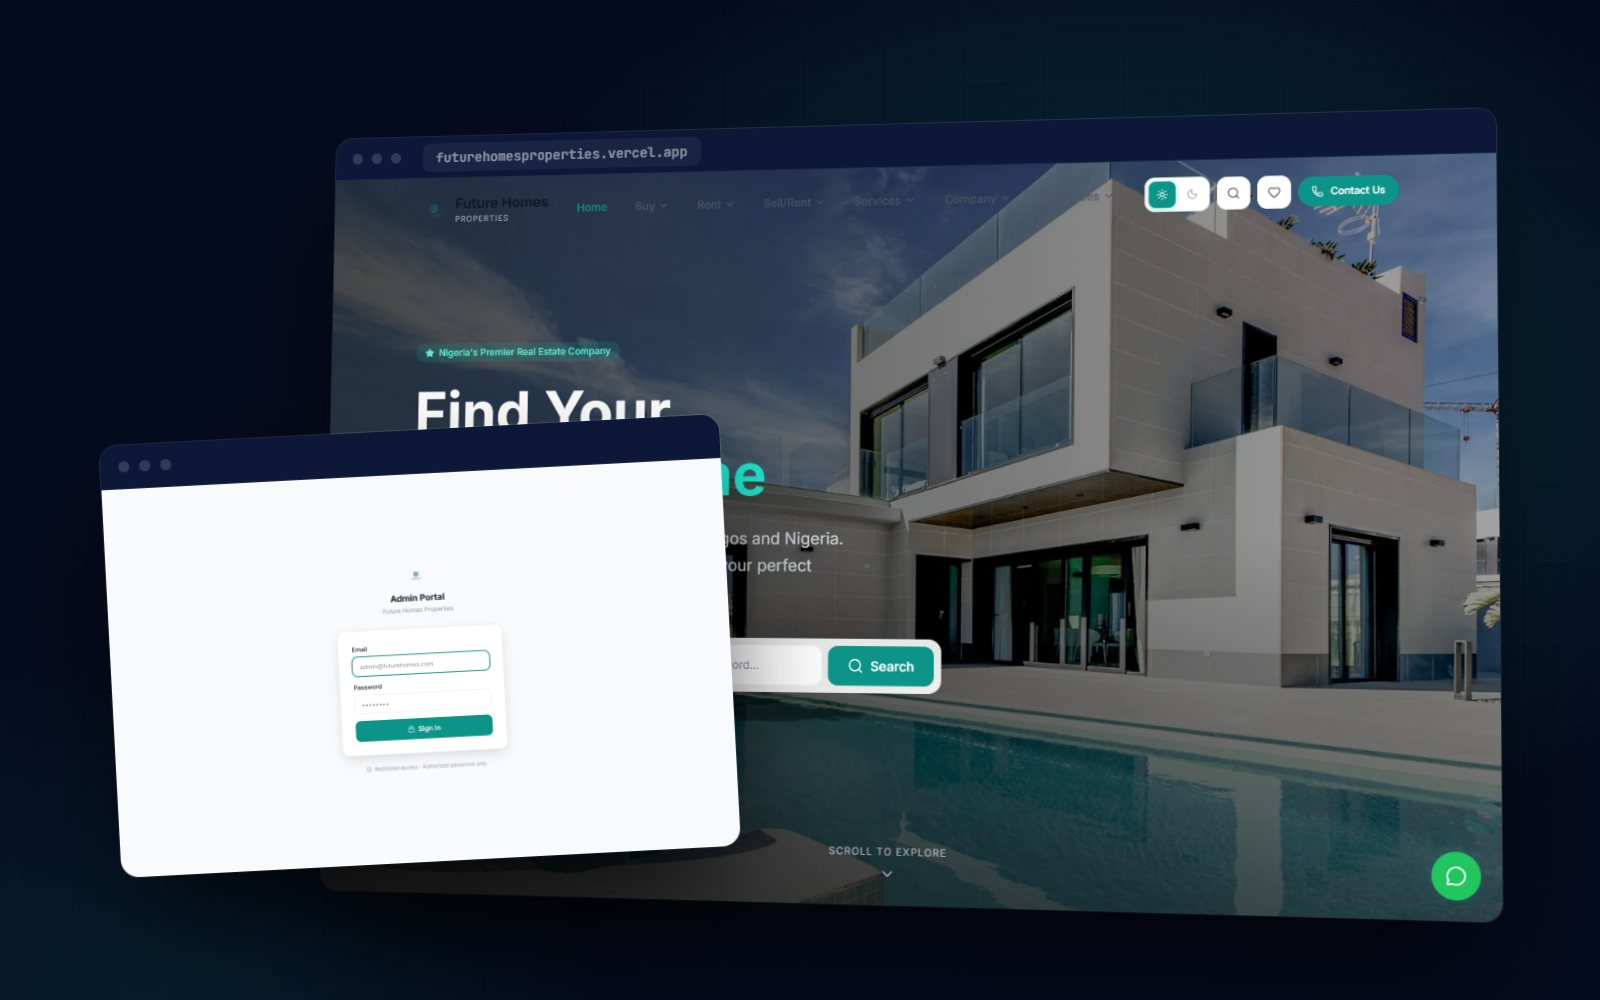
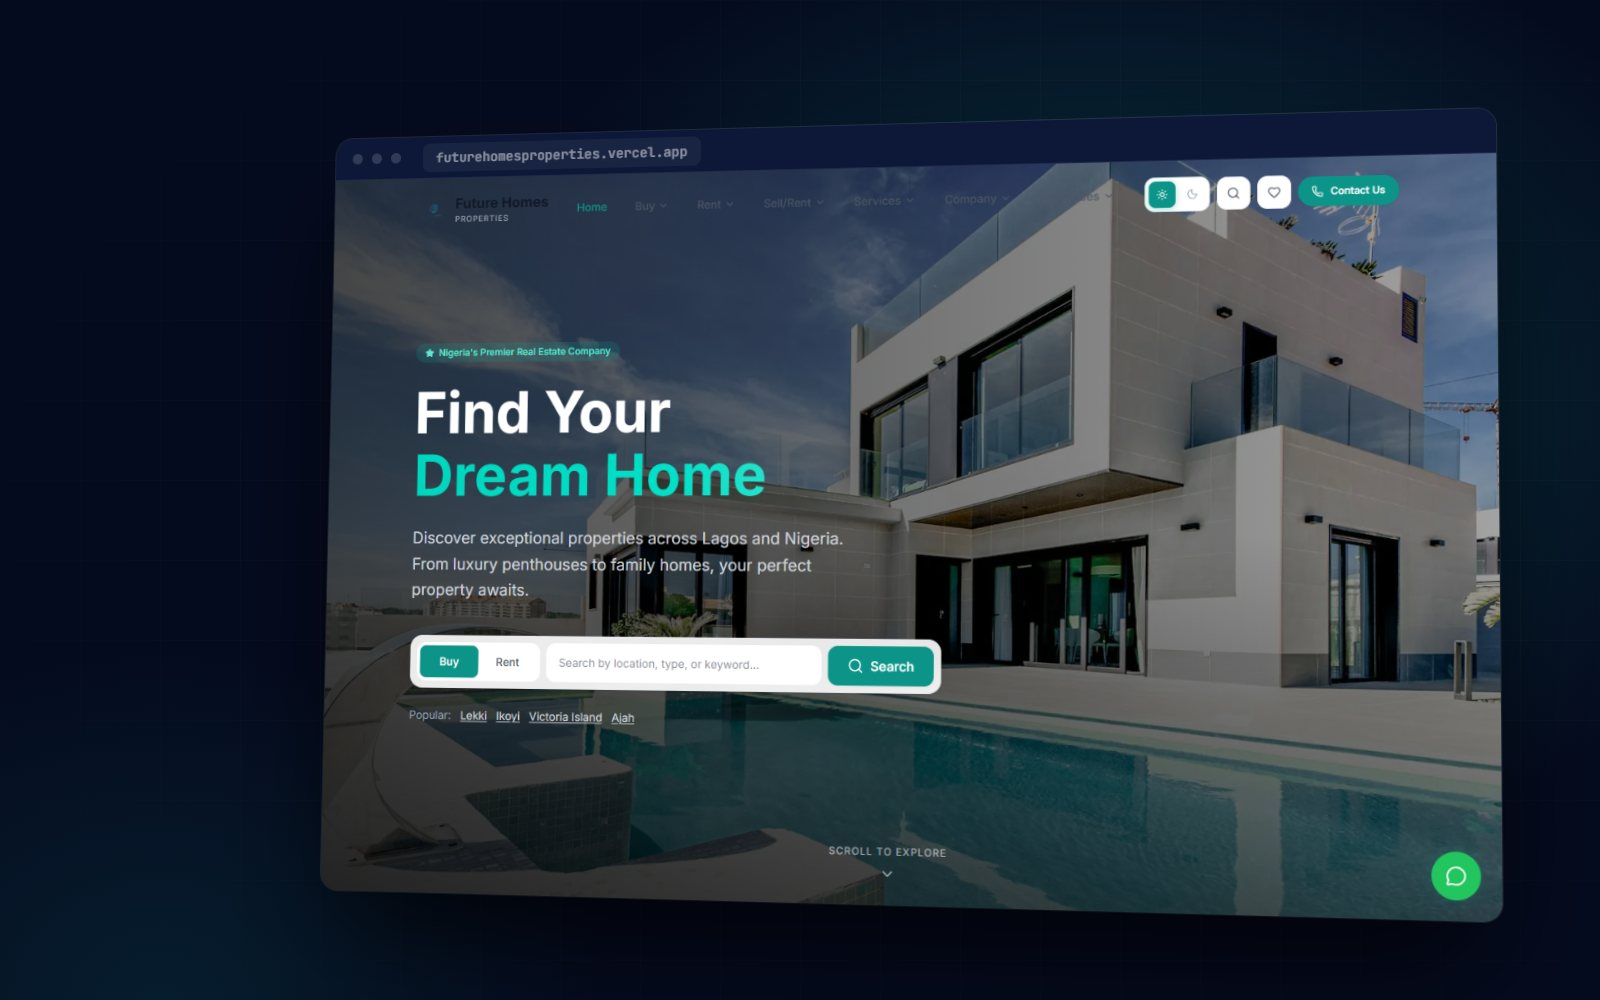
Update portfolio data: add Java skill, enhance backend and data stack, and modify project details; remove unused cover images

Changed region(s): [[0.0625, 0.403, 0.5, 0.899]]

diff --git a/src/data/portfolio-data.ts b/src/data/portfolio-data.ts
@@ -51,6 +51,7 @@ export const skills: Skill[] = [
   { name: "React / Next.js", icon: Globe, color: "text-blue-500" },
   { name: "React Native / Expo", icon: Atom, color: "text-[#61DAFB]" },
   { name: "Node.js / NestJS", icon: Database, color: "text-green-500" },
+  { name: "Java", icon: Code, color: "text-orange-600" },
   { name: "Python / FastAPI", icon: Code, color: "text-green-600" },
   { name: "MongoDB", icon: Database, color: "text-emerald-500" },
   { name: "PostgreSQL / Prisma", icon: Database, color: "text-cyan-600" },
@@ -62,9 +63,9 @@ export const skills: Skill[] = [
 
 export const stackGroups = [
   { label: "Frontend", items: ["Next.js", "React", "TypeScript", "Tailwind CSS", "TanStack Query", "Framer Motion", "shadcn/ui"] },
-  { label: "Backend", items: ["Node.js", "NestJS", "Express", "FastAPI", "Socket.IO", "REST APIs", "BullMQ"] },
-  { label: "Data", items: ["PostgreSQL", "Prisma", "MongoDB", "Redis", "pgvector", "MSSQL", "Firebase"] },
-  { label: "Apps & Ops", items: ["React Native / Expo", "Tauri", "Docker", "Vercel", "Playwright", "Vitest"] },
+  { label: "Backend", items: ["Next.js (API routes / full-stack)", "Node.js", "NestJS", "Express", "Java", "Python / FastAPI", "Socket.IO", "REST APIs", "BullMQ"] },
+  { label: "Data", items: ["PostgreSQL", "Prisma", "MongoDB", "Redis", "pgvector", "MSSQL", "Firebase", "Cloudinary"] },
+  { label: "Apps & Ops", items: ["React Native / Expo", "Tauri", "Python desktop (pywebview)", "Docker", "Vercel", "Paystack", "Playwright", "Vitest"] },
   { label: "Design", items: ["Figma", "Adobe XD", "Photoshop", "Illustrator", "Premiere"] },
 ];
 
@@ -106,6 +107,23 @@ export const services = [
 ];
 
 /* ------------------------------------------------------------------ */
+/* SAPOK TECH — the company                                            */
+/* ------------------------------------------------------------------ */
+
+export const sapokTech = {
+  name: "SAPOK TECH",
+  role: "Founder & CEO",
+  tagline: "Building solutions. Empowering futures.",
+  summary:
+    "SAPOK TECH is the technology company I run. Businesses come to us to design, build and run their software — from a single website to a full platform — and we ship our own products alongside that work.",
+  offers: ["Custom software & platforms", "Web, desktop & mobile apps", "Fintech & payments", "AI integration", "UI/UX & brand"],
+  cover: "/work/covers/sapok.jpg",
+  // Product slugs from `projects`, shown as the company's solutions
+  solutions: ["onegrid", "sapok-pay", "sapok-ai", "withu"],
+  websiteStatus: "Company website — in progress",
+};
+
+/* ------------------------------------------------------------------ */
 /* Experience                                                          */
 /* ------------------------------------------------------------------ */
 
@@ -144,9 +162,9 @@ export const cvExperience: CVExperience[] = [
     period: "2025 - Present",
     company: "SAPOK TECH",
     highlights: [
-      "Architecting Sapok OneGrid (formerly Nexora), a multi-tenant organisational management platform with a Next.js control center, a Tauri desktop app and a NestJS core API.",
-      "Building SAPOK Pay, a self-service wallet, ledger and payout platform with merchant API keys.",
-      "Building SAPOK AI, a permission-aware AI and knowledge-retrieval service on FastAPI with local embeddings.",
+      "Lead SAPOK TECH, a technology company businesses engage to design, build and run software — web platforms, desktop and mobile apps, fintech, AI and brand.",
+      "Oversee the company's own product line: Sapok OneGrid (organisational management desktop app), SAPOK Pay (fintech), SAPOK AI and WITHU.",
+      "Set product direction, architecture and delivery standards across client engagements and in-house products; the SAPOK TECH website is in progress.",
     ],
   },
   {
@@ -184,7 +202,7 @@ export const cvExperience: CVExperience[] = [
 export const cvSkillGroups = [
   { title: "Programming Languages", items: ["TypeScript", "JavaScript (ES6+)", "Python", "Java", "SQL", "HTML5 / CSS3"] },
   { title: "Frontend & Mobile", items: ["Next.js", "React", "React Native / Expo", "Tauri", "Tailwind CSS", "TanStack Query", "JSF PrimeFaces"] },
-  { title: "Backend & Data", items: ["Node.js", "NestJS", "Express", "FastAPI", "PostgreSQL / Prisma", "MongoDB", "Redis", "MSSQL", "Socket.IO"] },
+  { title: "Backend & Data", items: ["Next.js (full-stack / API routes)", "Node.js", "NestJS", "Express", "Java", "Python / FastAPI", "PostgreSQL / Prisma", "MongoDB", "Redis", "MSSQL", "Socket.IO", "Cloudinary", "Paystack"] },
   { title: "Tools & Design", items: ["Git / GitHub", "Docker", "Vercel", "Playwright / Vitest", "Figma", "Adobe Photoshop", "Adobe Illustrator", "Adobe XD"] },
 ];
 
@@ -192,7 +210,7 @@ export const cvSkillGroups = [
 /* Projects                                                            */
 /* ------------------------------------------------------------------ */
 
-export type ProjectCategory = "Platforms" | "Healthcare" | "Web Apps" | "Websites" | "Design";
+export type ProjectCategory = "Platforms" | "Healthcare" | "Desktop Apps" | "Web Apps" | "Websites" | "Design";
 
 export interface Project {
   slug: string;
@@ -212,31 +230,30 @@ export interface Project {
   featured?: boolean;
 }
 
-export const projectCategories: ("All" | ProjectCategory)[] = ["All", "Platforms", "Healthcare", "Web Apps", "Websites", "Design"];
+export const projectCategories: ("All" | ProjectCategory)[] = ["All", "Platforms", "Healthcare", "Desktop Apps", "Web Apps", "Websites", "Design"];
 
 export const projects: Project[] = [
   {
     slug: "onegrid",
     title: "Sapok OneGrid",
-    category: "Platforms",
+    category: "Desktop Apps",
     year: "2026",
     client: "SAPOK TECH · formerly Nexora",
-    summary: "Enterprise multi-tenant platform for running organisations — one core API behind a web control center and a desktop app.",
+    summary: "Organisational management desktop app — every organisation runs one app, and its sign-in decides the modules, roles and permissions they get.",
     overview:
-      "OneGrid (formerly Nexora) is the master platform of the SAPOK ecosystem. Platform admins onboard organisations, manage subscriptions and modules in the Control Center; every organisation runs the same Tauri desktop app, where the signed-in session decides identity, enabled modules, roles and permissions.",
+      "OneGrid (formerly Nexora) is SAPOK TECH's flagship solution: a multi-tenant desktop application organisations use to run their operations. One Tauri app serves every tenant — the signed-in session determines organisation identity, subscription, enabled modules, roles and permissions — all backed by a single NestJS core API.",
     features: [
-      "Control Center web app for onboarding, subscriptions and module management",
-      "Single Tauri desktop app for every tenant, scoped by session",
+      "One Tauri desktop app for every organisation, scoped by session",
+      "Subscriptions and per-organisation modules",
       "NestJS core API as the single source of truth, with Prisma and PostgreSQL",
       "Background payroll workers on BullMQ and Redis",
       "pgvector-ready data layer for the SAPOK AI intelligence phase",
     ],
     stack: ["NestJS", "Prisma", "PostgreSQL", "pgvector", "Redis", "BullMQ", "Next.js", "Tauri", "Turborepo", "Docker"],
     cover: "/work/covers/onegrid.jpg",
-    gallery: ["/work/onegrid.png", "/images/nexora.png", "/images/pt2.1.png", "/images/pt2.2.png", "/images/pt2.3.png"],
-    live: "https://sapok-control-center.vercel.app",
+    gallery: ["/images/nexora.png", "/images/pt2.1.png", "/images/pt2.2.png", "/images/pt2.3.png"],
     repo: "https://github.com/Adedara-samuel/NEXORA",
-    status: "In active development",
+    status: "In progress",
     featured: true,
   },
   {
@@ -278,9 +295,9 @@ export const projects: Project[] = [
       "Rate limiting, Helmet hardening and Swagger-documented API",
     ],
     stack: ["NestJS", "Prisma", "PostgreSQL", "Redis", "Zod", "Swagger", "Next.js", "TanStack Query", "Zustand"],
-    cover: "/work/sapok-pay.png",
+    cover: "/work/covers/sapok-pay.jpg",
     repo: "https://github.com/Adedara-samuel/Sapok-Pay",
-    status: "In active development",
+    status: "In progress",
     featured: true,
   },
   {
@@ -299,8 +316,8 @@ export const projects: Project[] = [
       "Async FastAPI service on PostgreSQL and Redis",
     ],
     stack: ["FastAPI", "Python", "Pydantic", "PostgreSQL", "asyncpg", "Redis", "fastembed", "Next.js"],
-    cover: "/work/sapok-ai.png",
-    status: "In active development",
+    cover: "/work/covers/sapok-ai.jpg",
+    status: "In progress",
   },
   {
     slug: "safetrack",
@@ -342,7 +359,7 @@ export const projects: Project[] = [
     ],
     stack: ["Next.js 16", "React 19", "TanStack Query", "shadcn/ui", "Express", "MongoDB", "Socket.IO", "JWT", "Swagger"],
     cover: "/work/covers/dms.jpg",
-    gallery: ["/images/portfolio1.png", "/images/p1.png", "/images/p2.png", "/images/p3.png"],
+    gallery: ["/work/dms-dashboard.png", "/work/brand/rhv-logo.png"],
     repo: "https://github.com/RHV-IT/Document-management-frontend",
   },
   {
@@ -371,6 +388,8 @@ export const projects: Project[] = [
     title: "WITHU",
     category: "Web Apps",
     year: "2026",
+    client: "SAPOK TECH",
+    status: "Live · a SAPOK TECH solution",
     summary: "A private space for two people who are apart — chat, games, watch-together and a shared memory book, on web and mobile.",
     overview:
       "A full-stack monorepo: one Express + Socket.IO + MongoDB backend, a Next.js web app and an Expo React Native app, sharing types, Zod validation and a pluggable game engine.",
@@ -389,10 +408,10 @@ export const projects: Project[] = [
   {
     slug: "bulkmail",
     title: "BulkMail",
-    category: "Web Apps",
+    category: "Desktop Apps",
     year: "2026",
-    client: "Redeemer's Health Village · Desktop app",
-    summary: "Windows desktop app for email campaigns and internal mail — personalised bulk sends and PDF certificates from Excel, all on-device.",
+    client: "Redeemer's Health Village",
+    summary: "Python desktop app for email campaigns and internal mail — personalised bulk sends and PDF certificates from Excel, all on-device.",
     overview:
       "BulkMail runs entirely on the user's own machine: nothing is uploaded anywhere. Teams pick a sender account and template, load a spreadsheet, preview exactly what each recipient will get, then send now or schedule — and the app keeps running in the system tray so scheduled campaigns still go out with the window closed.",
     features: [
